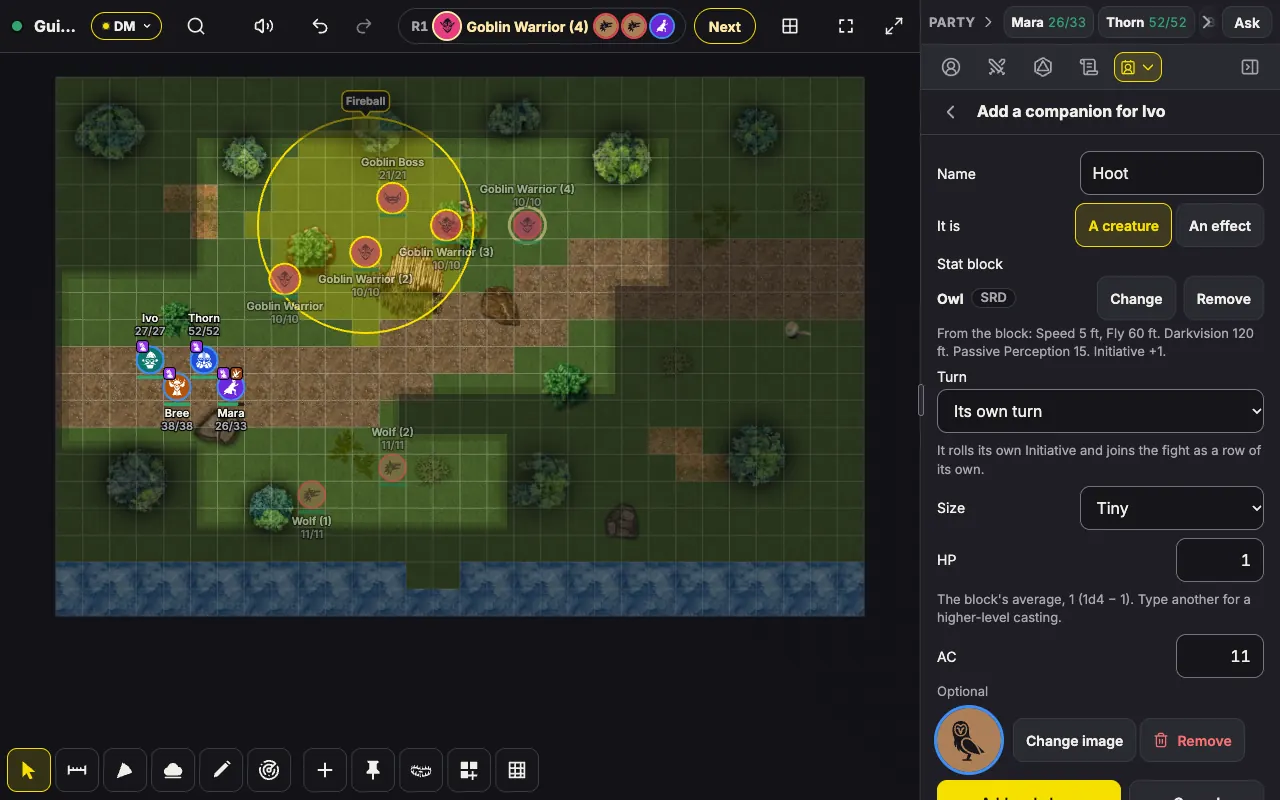
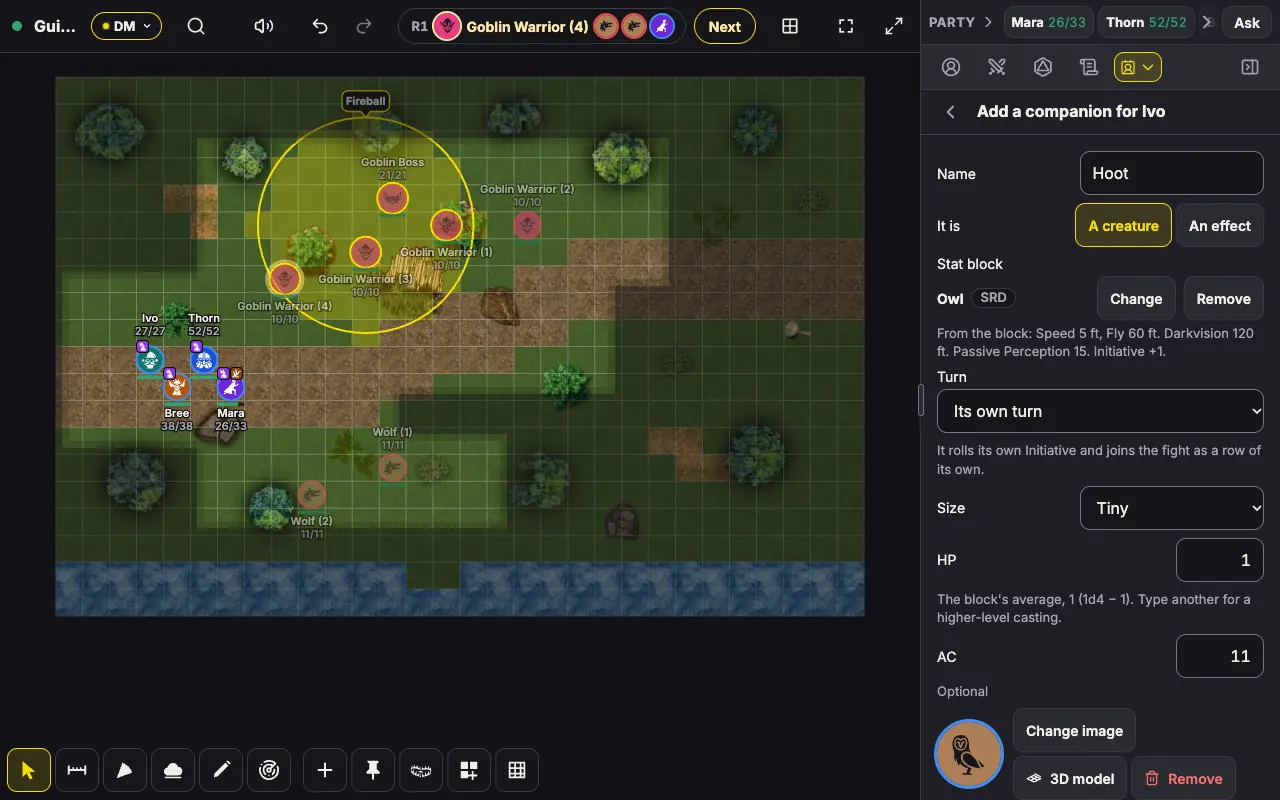
docs(guide): retake the pictures whose screens changed, and add the 3d model sheet and the vtt export

diff --git a/scripts/guide-models.ts b/scripts/guide-models.ts
@@ -8,10 +8,11 @@
  * art (client/features/models/fixtures.testutil.ts), read as an STL through
  * the 3D model sheet as a DM would: a Medium knight in Stone, another in
  * Bronze turned to face east, and a Large one in Iron, with a goblin that
- * keeps its icon.
+ * keeps its icon. models-sheet.webp is the Bronze knight's 3D model sheet,
+ * its file read and its color picked, before Save.
  *
  * It needs `pnpm build` first and a Postgres in DATABASE_URL. It makes a
- * room, writes docs/dm-guide/models-isometric.webp at 1280 x 800, as the
+ * room, writes docs/dm-guide/models-isometric.webp and models-sheet.webp at 1280 x 800, as the
  * guide's other pictures are, and deletes the room:
  *
  *   DATABASE_URL=postgres://... GUIDE_PORT=3198 node scripts/guide-models.ts
@@ -106,6 +107,24 @@ try {
     if (k.color !== "stone") {
       await sheet.getByRole("combobox", { name: "Color" }).selectOption(k.color);
       await waitFor("the drawing in its color", async () => ((await sheet.getByRole("button", { name: "Save", exact: true }).isEnabled()) ? true : null));
+    }
+    // The sheet itself, read and colored but not yet saved, for the guide's picture of its choices.
+    if (k.name === "Bronze knight") {
+      // The Stone knight's "Saved." toast left to go by itself, and the sheet scrolled to its foot so Size shows whole.
+      await dm.locator("[data-toast]").first().waitFor({ state: "hidden", timeout: 10_000 }).catch(() => {});
+      await sheet.evaluate((el) => {
+        type Box = { scrollHeight: number; clientHeight: number; scrollTop: number };
+        const g = globalThis as unknown as { getComputedStyle(b: Box): { overflowY: string }; scrollTo(x: number, y: number): void; document: { scrollingElement: Box | null } };
+        const body = Array.from((el as unknown as { querySelectorAll(s: string): ArrayLike<Box> }).querySelectorAll("*")).find(
+          (b) => b.scrollHeight > b.clientHeight + 4 && /(auto|scroll)/.test(g.getComputedStyle(b).overflowY),
+        );
+        if (body) body.scrollTop = body.scrollHeight;
+        // Only the sheet's own body scrolls: the room under it stays framed as it was.
+        g.scrollTo(0, 0);
+        if (g.document.scrollingElement) g.document.scrollingElement.scrollTop = 0;
+      });
+      await dm.mouse.move(0, WINDOW.height / 2);
+      await picture(dm, "models-sheet");
     }
     await sheet.getByRole("button", { name: "Save", exact: true }).click();
     await sheet.waitFor({ state: "detached" });

diff --git a/scripts/guide-floors-phase4.ts b/scripts/guide-floors-phase4.ts
@@ -9,7 +9,7 @@
  *   floors-fly-strip.webp, floors-fly-up.webp, floors-fall-card.webp,
  *   floors-trapdoor-pane.webp, floors-line-up.webp, floors-outliner-other.webp,
  *   floors-opening-isometric.webp, floors-fight-every-floor.webp,
- *   floors-export-every.webp and floors-several-files.webp.
+ *   floors-export-every.webp, uvtt-export.webp and floors-several-files.webp.
  *
  * It needs `pnpm build` first and a Postgres in DATABASE_URL. It makes a
  * room, writes the pictures to docs/dm-guide/ at 1280 x 800 for the
@@ -325,6 +325,26 @@ try {
   await section.evaluate((el) => (el as unknown as { scrollIntoView(o: unknown): void }).scrollIntoView({ block: "center" }));
   await quiet(dm);
   await picture(dm, "floors-export-every");
+
+  // Shot 8b: Export as VTT file on Every floor, the DM view, once the file is made.
+  await section.getByRole("button", { name: "Close", exact: true }).click();
+  await section.getByRole("button", { name: "Export as VTT file", exact: true }).click();
+  await section.getByRole("radiogroup", { name: "Floors", exact: true }).getByRole("radio", { name: "Every floor", exact: true }).check();
+  await section.getByRole("radiogroup", { name: "Version", exact: true }).getByRole("radio", { name: "DM view", exact: true }).check();
+  await section.getByRole("button", { name: "Make the file", exact: true }).click();
+  const download = section.getByRole("link", { name: "Download", exact: true });
+  await download.waitFor({ timeout: 30_000 });
+  // The made file's line and Download sit at the section's foot, so the panel shows them with a margin under them.
+  await download.evaluate((el) => {
+    type Box = { scrollTop: number; scrollHeight: number; clientHeight: number; parentElement: Box | null; getBoundingClientRect(): { bottom: number } };
+    const link = el as unknown as Box;
+    let box = link.parentElement;
+    while (box && !(box.scrollHeight > box.clientHeight + 4)) box = box.parentElement;
+    if (box) box.scrollTop += link.getBoundingClientRect().bottom - box.getBoundingClientRect().bottom + 24;
+  });
+  await quiet(dm);
+  await picture(dm, "uvtt-export");
+  await section.getByRole("button", { name: "Close", exact: true }).click();
 
   // Shot 9: New scene from 3 files.
   const p = (x: number, y: number) => ({ x, y });

diff --git a/docs/dm-guide.md b/docs/dm-guide.md
@@ -733,6 +733,8 @@ To add one, open the creature's **Image** group in the Token panel and press **3
 
 The preview shows the model on its ring as it will stand on the map. **Turn left** and **Turn right** turn it a view at a time, as do Left and Right once the preview has focus. If the model comes in lying on its back or upside down, press **Stand it up** until it stands, and **Turn its front** turns it a quarter so it faces away up the map at Facing 0°. **Size** makes it larger or smaller than its square, for a dragon whose wings should spread past its space, say. An STL or OBJ has no color of its own, so **Color** paints it **Stone**, like an unpainted miniature, **Bronze**, **Bone**, **Iron** or **Picture's color**. A GLB keeps its own colors and textures. Press **Save** to put the model on the picture. A creature with no picture also takes the model's front view as its picture, so Top-down shows the figure too.
 
+![The 3D model sheet for the Bronze knight on a computer, its file read: the preview of a figure on a round base in bronze over four squares, Turn left and Turn right, Color on Bronze, Stand it up and Turn its front with their help, Size at 100%, and Cancel and Save.](dm-guide/models-sheet.webp)
+
 ![Three knights in Isometric on the DM's screen, each a 3D model of a figure on a round base: a Medium one in Stone, another in Bronze facing east, and a Large one in Iron, standing beside a goblin that keeps its pink icon.](dm-guide/models-isometric.webp)
 
 Once a model is in the room, **Or use one from this room**, under Choose a file, reuses it with one tap and no file to find. The room keeps only the views, so to change a model's color, size or which way is up, choose its file again. **Remove model** asks for a second tap, and **Undo setup** brings it back. Your players can add models to their own characters, and a player can't undo removing one, which is why the second tap is there for everyone.
@@ -1091,6 +1093,8 @@ Press **Create scene** to make it, and keep the page open until the walls have b
 
 **A VTT file.** **Export as VTT file**, beside Export as image, saves the scene as a Universal VTT file with its map image, walls, doors, windows and lights, the same kind of `.dd2vtt` file Dungeondraft makes. Use it to take a map you built here to Foundry, Fantasy Grounds or Arkenforge, or into another room of your own. Choose **Pixels per square** and the **Player view** or the **DM view**. The player view holds what your players can see: the walls they have seen, a secret door they haven't found as a wall, and no lights, since only you know where those are. The DM view holds every wall and door, each secret door as a plain door, and every light that is on, so keep that one to yourself. Either way the map image is drawn as players see it, so the art never gives a secret door away. Some things stay in your room, since the file has no place for them: heights, traps, tokens, fog, locks, and doors standing open, which the file writes closed. Press **Make the file**, then **Download**. Before it hands you the file, the app reads it back the way its own import would, and when a wall would come back changed, as when a door sits very close to a wall, a note under the file says so. On a hex scene the file still reads as squares, since that is what other VTTs expect, and the walls along your hexes come with it as lines off the grid.
 
+![Export as VTT file in the Scenes panel with Every floor and the DM view chosen: the help for the DM view, the line naming what stays in the room, and "Made Tower (DM).zip: 3 floors at 70 px per square" above Download.](dm-guide/uvtt-export.webp)
+
 To move a whole tower, choose **Every floor**. The app makes one file a floor and saves them in one `.zip`, `Tower.zip`, with files named `Tower - 01 - Ground floor.dd2vtt` and on. Open the zip in your phone's Files app or on your computer, then pick all of its files at once under **From a Universal VTT file** in New scene, and the tower comes back as one scene with its floors' names (see **A scene from several files** above).
 
 ## Animated maps
@@ -1121,7 +1125,7 @@ This part covers what you use once the dice come out: monsters and encounters, t
 
 The **Monsters** panel (DM only) holds the 330 monsters of the SRD 5.2.1, along with any your room has added. Use it to look up a stat block or to put monsters on the map. In a stat block, an outline around one of the six ability boxes means the creature is proficient in that saving throw. The boxes here stay plain, since no creature stands behind them. Once a monster is on the map, the boxes in its token's stat block roll (see [Rolling from a stat block](#rolling-from-a-stat-block)).
 
-![A monster's page in the Monsters panel: the Goblin Warrior's place card, with CR 1/4 on its first line, then How many, Hidden from players and Place 4 on the map, then its token image and credit.](dm-guide/monsters.webp)
+![A monster's page in the Monsters panel: the Goblin Warrior's place card, with CR 1/4 on its first line, then How many, Hidden from players and Place 4 on the map, then its token image with Change image and 3D model, and its credit.](dm-guide/monsters.webp)
 
 **Finding a monster.** Type in **Search** (`goblin`, `undead`, `huge`), and your words are matched against each monster's name, type and size. You can add a challenge rating to the search as well: `cr 5` for one rating, `cr 1-5` or `cr 1/2-3` for a range, or `cr 10-` for 10 and up. **Filters** narrows the list further by challenge rating, creature type, **Legendary**, **Has a lair**, size, immunities, resistances, vulnerabilities, movement, senses and alignment.
 
@@ -2217,7 +2221,7 @@ To add them, press **Add a class resource** under **Uses**. **From a class** lis
 
 Each resource then shows its name with its count: for Rage's 3, three pips at the right end of the line, one filled for each use left, and for a count of more than 6 or a pool of points, words at the same place, such as "25 of 25". Under it come **Use**, **Restore** (which gives one back) and **Edit** (a pencil), to change or remove it. A pool such as Lay on Hands has **Use…** and **Restore…**, which ask how many points. When the character's level goes up, the list asks once for each class whether to update its counts ("Your level went up. Update Barbarian resources?"), and once the character has classes (below), it asks when that class's own level rises: "Your Barbarian level is now 6. Update Barbarian resources?" Class resources also show in the **Uses** of the character's action bar and tracker row, and on its turn card, so a player can spend Rage without leaving the fight (see [Uses and Legendary Actions](#uses-and-legendary-actions)). Only you and the character's players see them.
 
-![Thorn's page, a level 5 fighter, after one Second Wind: Uses lists Second Wind 2 of 3 and Action Surge 1 of 1, each with Use, Restore and its pencil, then Add a class resource, and Rest's Short Rest and Long Rest under them.](dm-guide/class-resources.webp)
+![Thorn's page, a level 5 fighter, after one Second Wind: Uses lists Second Wind 2 of 3 and Action Surge 1 of 1, each with Use, Restore and its pencil, then Add your classes and Add a class resource, and Rest's Short Rest and Long Rest under them.](dm-guide/class-resources.webp)
 
 A character from D&D Beyond doesn't need its resources typed in at all. The D&D Beyond import and [Re-sync from D&D Beyond](#re-sync-from-dd-beyond) bring in the limited uses of its classes, species and feats, each with its count, the rest that brings it back, and the uses already spent there. Magic items' charges and spells stay out.
 
@@ -2240,14 +2244,14 @@ Characters level up between sessions, and players keep their sheets in D&D Beyon
 The app remembers what the last sync brought in, so it can tell a change made in D&D Beyond from one made here. Press **Re-sync from D&D Beyond**, and the app shows **Re-sync review**:
 
 - **Changes from D&D Beyond** lists what changed only in D&D Beyond, such as a higher Wisdom or a new spell. These come in.
-- **Other fields** lists the level, max HP, AC, Speed and senses, ticked, as they are on an import, and the name, unticked. Untick any line you want to leave as it is. The max HP line also says how many HP the character keeps.
+- **Other fields** lists the level, the classes, max HP, AC, Speed and senses, ticked, as they are on an import, and the name, unticked. Untick any line you want to leave as it is. The max HP line also says how many HP the character keeps.
 - **Kept changes** lists what was changed here since the last sync, such as a druid who casts with Charisma rather than Wisdom, or a weapon the player renamed. Each one stays as it is, with what D&D Beyond says beside it, unless you tick **Overwrite** on it, or press **Overwrite all**. A change made in both places is marked **Also changed in D&D Beyond**, so you can choose between the two. A roll the player deleted stays deleted, with **Add it back** if they want it again.
 
-![Re-sync review for Wren after a level-up in D&D Beyond: Wisdom 18, a stronger Shillelagh and Moonbeam come in, Level 6 and Max HP 45 are ticked under Other fields while the name is not, and her Charisma spellcasting and AC 15, both changed here, are kept, each with its Overwrite box.](dm-guide/resync.webp)
+![Re-sync review for Wren after a level-up in D&D Beyond: Wisdom 18, a stronger Shillelagh and Moonbeam come in, Level 6, Max HP 45 and Classes: Druid 6 are ticked under Other fields while the name is not, and her Charisma spellcasting and AC 15, changed here, are kept, each with Overwrite.](dm-guide/resync.webp)
 
 Class resources come in the same way, each on a line of its own, such as "Updates Rage: 4 uses, now 3" after a level-up. One changed here is kept, with **Overwrite**, like any other change. Spending them, though, is play rather than the sheet. If a player spent a use here that D&D Beyond still shows as unspent, the review lists it unticked under **Other fields**, such as "Rage 4 of 4 left, now 3 of 4", so a re-sync never hands back a use spent in a fight. Tick it to take D&D Beyond's count.
 
-![Re-sync review for Kael, a barbarian who spent a Rage here and then reached level 6 in D&D Beyond: "Updates Rage: 4 uses, now 3" comes in, and under Other fields, Level 6 and Max HP 78 are ticked while "Rage 4 of 4 left, now 3 of 4" is not, since unticked keeps what was spent here.](dm-guide/ddb-resources.webp)
+![Re-sync review for Kael, a barbarian who spent a Rage here and then reached level 6 in D&D Beyond: "Updates Rage: 4 uses, now 3" comes in, and under Other fields, Level 6, Max HP 78 and Classes: Barbarian 6 are ticked while "Rage 4 of 4 left, now 3 of 4" is not, so the Rage spent here stays spent.](dm-guide/ddb-resources.webp)
 
 Press **Apply** to make the changes. The app tells you how many came in and how many of your changes stayed, and **Undo the re-sync** takes it all back, the exact HP included, until you close the dialog. For you, a re-sync is also a step in **Setup history**, and so is that Undo. If you press **Undo setup** after the dialog's own Undo, it puts the sync back again, which the top bar's **Undo** never does. See [Undo, Redo and Setup history](#undo-redo-and-setup-history).
 
@@ -2270,7 +2274,7 @@ A companion is a token that belongs to a character: a familiar, a summoned spiri
 
 **Add and place** puts the companion next to the character's token. When the character has more than one token on the scene, it goes beside the one you have selected, or else the topmost one. Players add their own companions the same way. The form's chevron at the top (**Back to Ivo**, named for the character) or **Cancel** at its foot returns to the character's page, and asks "Discard changes?" first if you typed anything. To turn a token that is already on the map into a companion, use **Make a companion** in its **Token settings**.
 
-![Add a companion for Ivo, a page of its own with Back to Ivo at the top: Hoot, a creature with the SRD Owl's stat block, taking its own turn, with the Fireball's area from the fight still drawn on the map behind it.](dm-guide/companion.webp)
+![Add a companion for Ivo, a page of its own with Back to Ivo at the top: Hoot, a creature with the SRD Owl's stat block, taking its own turn, with 3D model beside its picture, and the Fireball's area from the fight still drawn on the map behind it.](dm-guide/companion.webp)
 
 **Stat blocks (N)**, on the character's page, opens a page of its own that keeps the character's own companion stat blocks, pasted or typed, up to 100 of them. That way a creature summoned again starts from the same block. An SRD creature doesn't need keeping, since you can pick it again.
 
